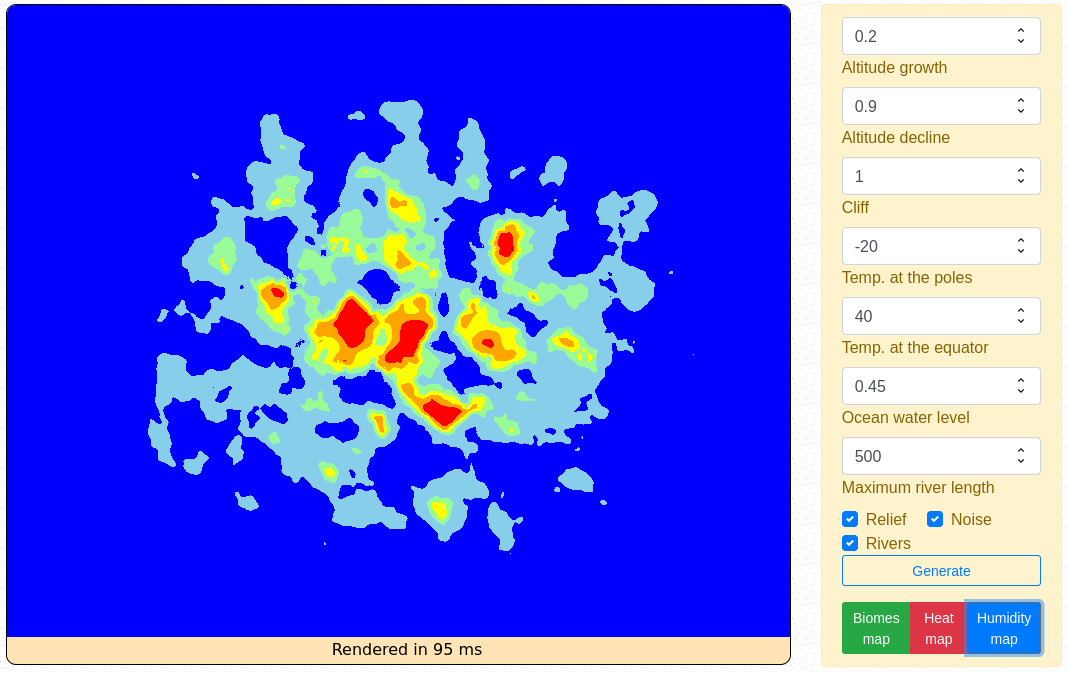
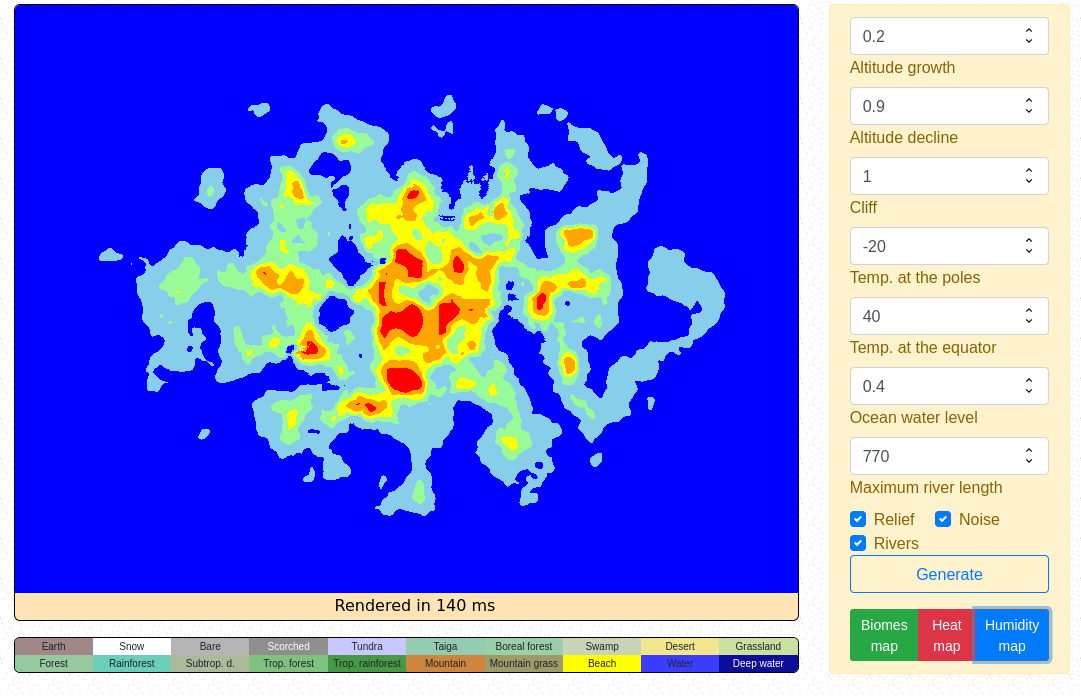
add legend

diff --git a/src/App.html b/src/App.html
@@ -15,7 +15,7 @@
 	} from "svelte";
 
 	let width = 800;
-	let height = 632;
+	let height = 588;
 	var noisearray = new Array(width);
 	var heatmap = new Array(width);
 	var humiditymap = new Array(width);
@@ -42,29 +42,29 @@
 	var data = null;
 	let biomes = [
 		// name, attitude range, temp range, humidity range, rgb
-		['anything', -10, 10, -100, 100, -2000, 2000, 143, 143, 143],
+		['earth', -10, 10, -100, 100, -2000, 2000, 160, 136, 136],
 		['snow', 0.9, 3, -50, 100, 30, 1500, 255, 255, 255],
 		['bare', 0.9, 3, -50, 100, 10, 30, 180, 180, 180],
 		['scorched', 0.9, 3, -50, 100, 0, 10, 143, 143, 143],
-		['snow', 0, 0.03, -50, 0, 0, 1500, 255, 255, 255],
-		['snow', 0.03, 0.7, -50, -10, 250, 1500, 255, 255, 255],
-		['tundrasnow', 0.03, 0.7, -50, -10, 0, 250, 200, 200, 255],
+		['tundra', 0.03, 0.7, -50, -10, 0, 250, 200, 200, 255],
 		['taiga', 0.03, 0.7, -10, 10, 0, 100, 147, 204, 176],
-		['borealforest', 0.03, 0.7, -10, 10, 100, 300, 155, 207, 168],
-		['swamp', 0.03, 0.7, -10, 10, 300, 1500, 240, 230, 140],
-		['desert', 0.03, 0.7, 10, 22, 0, 70, 201, 212, 182],
+		['boreal forest', 0.03, 0.7, -10, 10, 100, 300, 155, 207, 168],
+		['swamp', 0.03, 0.7, -10, 10, 300, 1500, 201, 212, 182],
+		['desert', 0.03, 0.7, 10, 22, 0, 70, 240, 230, 140],
 		['grassland', 0.03, 0.7, 10, 22, 70, 150, 201, 224, 159],
 		['forest', 0.03, 0.7, 10, 22, 150, 300, 151, 201, 159],
-		['rainforest', 0.03, 0.7, 10, 22, 300, 1500, 106, 184, 206],
-		['subtropdesert', 0.03, 0.7, 22, 50, 0, 70, 174, 184, 154],
-		['grassland', 0.03, 0.7, 22, 50, 70, 100, 201, 224, 159],
-		['tropforest', 0.03, 0.7, 22, 50, 100, 250, 127, 194, 126],
-		['troprainforest', 0.03, 0.7, 22, 50, 250, 1500, 70, 153, 69],
+		['rainforest', 0.03, 0.7, 10, 22, 300, 1500, 106, 206, 184],
+		['subtropical desert', 0.03, 0.7, 22, 50, 0, 70, 174, 184, 154],
+		['tropical forest', 0.03, 0.7, 22, 50, 100, 250, 127, 194, 126],
+		['tropical rainforest', 0.03, 0.7, 22, 50, 250, 1500, 70, 153, 69],
 		['mountain', 0.7, 0.9, -50, 100, 0, 150, 205, 133, 63],
-		['grassmountain', 0.7, 0.9, -50, 100, 150, 1500, 151, 156, 106],
+		['grass mountain', 0.7, 0.9, -50, 100, 150, 1500, 151, 156, 106],
 		['beach', 0, 0.03, 0, 50, 0, 1500, 255, 255, 0],
 		['water', -0.3, 0, -50, 50, 0, 1500, 60, 60, 255],
-		['darkwater', -3, -0.3, -50, 50, 0, 1500, 15, 13, 155],
+		['deepwater', -3, -0.3, -50, 50, 0, 1500, 15, 13, 155],
+		['snow', 0, 0.03, -50, 0, 0, 1500, 255, 255, 255],
+		['snow', 0.03, 0.7, -50, -10, 250, 1500, 255, 255, 255],
+		['grassland', 0.03, 0.7, 22, 50, 70, 100, 201, 224, 159],
 	]
 
 	let temps = [
@@ -89,10 +89,6 @@
 		canvas = document.getElementsByTagName('canvas')[0];
 		canvas.width = width;
 		canvas.height = height + 20;
-		canvas.addEventListener('click', function(evt) {
-			let xx = evt.clientX - 10;
-			alert(xx + ',' + evt.clientY + ' att: ' + noisearray[xx][evt.clientY] + ' heat: ' + Math.round(heatmap[xx][evt.clientY]) + ' hum: ' + Math.round(humiditymap[xx][evt.clientY]));
-		}, false);
 	}
 
 	function drawPixel(x, y, a, arrayset, thresh, border) {
@@ -187,7 +183,7 @@
 		var pickX = 5 + Math.round(Math.random() * (width - 10));
 		var pickY = 5 + Math.round(Math.random() * (height - 10));
 		var attemp = 0;
-		let maxiterations = Math.round(Math.random()*1000);
+		let maxiterations = Math.round(Math.random() * 1000);
 		while (attemp < 1500 + maxiterations) {
 			attemp++;
 			if (noisearray[pickX][pickY] > 0.5 + threshold && noisearray[pickX][pickY] < 0.7 + threshold) {
@@ -231,11 +227,11 @@
 			}
 			if (drawriver) {
 				if (noisearray[riverx + newx - 1][rivery + newy - 1] - threshold > 0 && noisearray[riverx + newx - 1][rivery + newy - 1] - threshold < 0.1) {
-					noisearray[riverx + newx - 1][rivery + newy - 1] = threshold+0.025;
+					noisearray[riverx + newx - 1][rivery + newy - 1] = threshold + 0.025;
 				}
 				for (let y = -2; y < 3; y++) {
 					for (let x = -2; x < 3; x++) {
-						humiditymap[riverx + newx + x][rivery + newy + y] += Math.random()*(3*Math.sqrt(Math.abs(x)*Math.abs(x)+Math.abs(y)*Math.abs(y))) ;
+						humiditymap[riverx + newx + x][rivery + newy + y] += Math.random() * (3 * Math.sqrt(Math.abs(x) * Math.abs(x) + Math.abs(y) * Math.abs(y)));
 					}
 				}
 				noisearray[riverx + newx][rivery + newy] = threshold - 0.05;
@@ -314,15 +310,28 @@
 	}
 
 	#container {
-		border-radius: 10px;
+		border-radius: 6px;
 		background-color: moccasin;
 		border: 1px solid black;
 		overflow: hidden;
 	}
 
 	#container>canvas {
-		height: 652px;
+		height: 608px;
 		background-color: moccasin;
+	}
+
+	#legend {
+		border-radius: 6px;
+		background-color: moccasin;
+		border: 1px solid black;
+		overflow: hidden;
+		font-size: 10px;
+	}
+	td {
+		cellpadding: 8;
+		width: 80px;
+		text-align: center;
 	}
 </style>
 <div id="background">
@@ -330,6 +339,35 @@
 		<Col sm="12" md={{ size: 6, offset: 2 }}>
 		<div id="container">
 			<canvas id="canvas"></canvas>
+		</div>
+		<p></p>
+		<div id="legend">
+			<table>
+			  <tr>
+			    <td bgcolor="#A08888">Earth</td>
+			    <td bgcolor="#FFFFFF">Snow</td>
+			    <td bgcolor="#B4B4B4">Bare</td>
+					<td bgcolor="#8F8F8F" style="color:#ffffff">Scorched</td>
+					<td bgcolor="#C8C8FF">Tundra</td>
+					<td bgcolor="#93CCB0">Taiga</td>
+					<td bgcolor="#9BCFA8">Boreal forest</td>
+					<td bgcolor="#C9D4B6">Swamp</td>
+					<td bgcolor="#F0E68C">Desert</td>
+					<td bgcolor="#C9E09F">Grassland</td>
+			  </tr>
+			  <tr>
+					<td bgcolor="#97C99F">Forest</td>
+			    <td bgcolor="#6ACEB8">Rainforest</td>
+			    <td bgcolor="#AEB89A" >Subtrop. d.</td>
+					<td bgcolor="#7FC27E">Trop. forest</td>
+					<td bgcolor="#469945">Trop. rainforest</td>
+					<td bgcolor="#CD853F">Mountain</td>
+					<td bgcolor="#9B9C6A">Mountain grass</td>
+					<td bgcolor="#FFFF00">Beach</td>
+					<td bgcolor="#3C3CFF">Water</td>
+					<td bgcolor="#0D0D9B" style="color:#ffffff">Deep water</td>
+			  </tr>
+			</table>
 		</div>
 		</Col>
 		<Col xs="2">
@@ -351,7 +389,7 @@
 			<CustomInput type="checkbox" label="Relief" id="reliefmap" inline bind:checked={reliefmap} />
 			<CustomInput type="checkbox" label="Noise" inline id="noisemap" bind:checked={noisemap} />
 			<CustomInput type="checkbox" label="Rivers" inline id="rivermap" bind:checked={rivermap} />
-			<Button block size="sm" color="primary" outline={generatebutton} on:click={generateMap}>Generate</Button>
+			<Button block color="primary" outline={generatebutton} on:click={generateMap}>Generate</Button>
 			<p></p>
 			<ButtonGroup>
 				<Button size="sm" color="success" on:click={drawMap}>Biomes map</Button>
